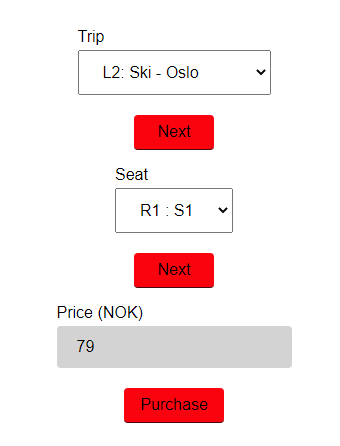
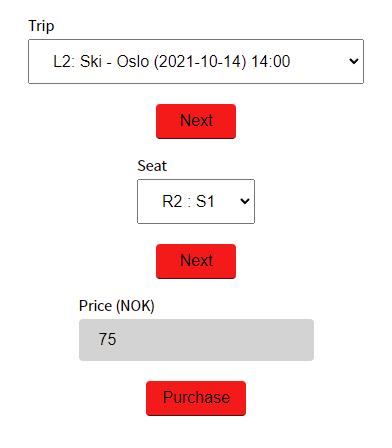
Added datetime to travel form

Changed region(s): [[0.0588, 0.0291, 0.9412, 0.9619], [0.6176, 0.4081, 0.6765, 0.4955]]

diff --git a/index.js b/index.js
@@ -521,7 +521,13 @@ function loadTravel() {
                     for(var i = 0; i < trips.trips.length; i++) {
                         var x = document.getElementById("trip_id");
                         var option = document.createElement("option");
-                        option.text = trips.trips[i].trip_name + ': ' + trips.trips[i].trip_start_location + ' - ' + trips.trips[i].trip_end_location;
+                        
+                        var timesplit = trips.trips[i].trip_datetime.split(' ');
+                        var date = timesplit[0];
+                        var full_time = timesplit[1].split(':');
+                        var time = full_time[0] + ':' + full_time[1];
+
+                        option.text = trips.trips[i].trip_name + ': ' + trips.trips[i].trip_start_location + ' - ' + trips.trips[i].trip_end_location + ' (' + date + ') ' + time;
                         option.value = trips.trips[i].trip_id;
                         x.add(option);
                     }

diff --git a/api/objects/trip.php b/api/objects/trip.php
@@ -25,7 +25,7 @@ class Trip{
     function get_trips(){
 
         // query to check if email exists
-        $query = "SELECT trip_id, trip_name, trip_start_location, trip_end_location " .
+        $query = "SELECT trip_id, trip_name, trip_start_location, trip_end_location, trip_datetime " .
                  "FROM " . $this->table_name . " WHERE trip_enabled = '1'";
 
         $stmt = $this->conn->prepare($query);
@@ -38,6 +38,7 @@ class Trip{
         $stmt->bindColumn(2, $trip_name);
         $stmt->bindColumn(3, $trip_start_location);
         $stmt->bindColumn(4, $trip_end_location);
+        $stmt->bindColumn(5, $trip_datetime);
 
         // get number of rows
         $num = $stmt->rowCount();
@@ -53,7 +54,8 @@ class Trip{
                     'trip_id' => $trip_id,
                     'trip_name' => $trip_name,
                     'trip_start_location' => $trip_start_location,
-                    'trip_end_location' => $trip_end_location
+                    'trip_end_location' => $trip_end_location,
+                    'trip_datetime' => $trip_datetime
                     );
             }
 
